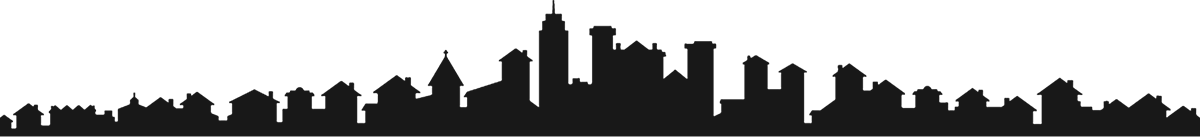
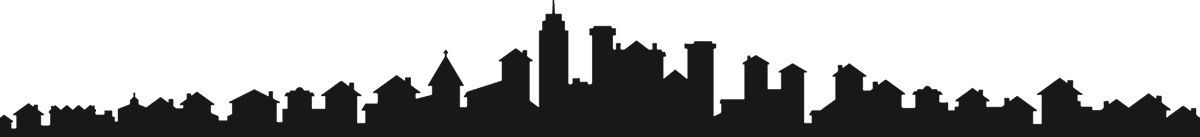
mobile adaptive

Changed region(s): [[0.0, 0.9927, 1.0, 1.0]]

diff --git a/css/style.css b/css/style.css
@@ -69,6 +69,9 @@ body {
 .menu__item:last-child a {
     margin-right: 0;
 }
+.menu__mobile {
+    display: none;
+}
 .active a {
     color: #010101;
 }
@@ -85,7 +88,8 @@ body {
     font-weight: 400;
     letter-spacing: 0.02em;
     color: #1d1e1f;
-    margin: 207px auto 4px;
+    padding-top: 207px;
+    margin: 0px auto 4px;
 }
 .header__text {
     font-family: "Merriweather-LightItalic", serif;
@@ -119,8 +123,8 @@ body {
     height: 1129px;
     padding-top: 128px;
     padding-bottom: 271px;
-    background: url(../img/buildings_white.png) center 101% repeat-x,
-                url(../img/buildings_dark.png) center 101% repeat-x,
+    background: url(../img/buildings_white.png) center 100% repeat-x,
+                url(../img/buildings_dark.png) center 100% repeat-x,
                 #1d1d1d;
     /* background-size: contain, contain; */
 }
@@ -375,4 +379,106 @@ input[type='number'] {
     letter-spacing: 0.02em;
     color: #3b3b3b;
     margin-bottom: 29px;
+}
+/*media for iPad*/
+@media screen and (max-width: 769px) {
+    .container {
+        width: 768px;
+    }
+    .about {
+        height: auto;
+        padding-bottom: 200px;
+    }
+    .about__inner {
+        grid-gap: 30px;
+        grid-template-columns: max-content;
+    }
+    .provide {
+        padding-bottom: 100px;
+    }
+    .team .block__title,
+    .provide .block__title {
+        padding-top: 100px;
+    }
+    .provide__inner {
+        flex-wrap: wrap;
+        justify-content: center;
+    }
+    .provide__item {
+        max-width: 300px;
+        margin: 0 30px 40px;
+    }
+    .contact__form {
+        padding-top: 100px;
+    }
+    .footer {
+        padding-top: 30px;
+    }
+}
+/*media for iPhone*/
+@media screen and (max-width: 376px) {
+    .container {
+        width: 375px;
+    }
+    .logo {
+        margin: 0 -15px;
+    }
+    .menu__desktop {
+        display: none;
+    }
+    .menu__mobile {
+        display: flex;
+        justify-content: space-between;
+        align-items: center;
+    }
+    .menu {
+        display: none;
+    }
+    .menu__burger {
+        cursor: pointer;
+        width: 30px;
+        height: 3px;
+        background-color: #000;
+        position: relative;
+    }
+    .menu__burger:after {
+        content: '';
+        width: 30px;
+        height: 3px;
+        background-color: #000;
+        position: absolute;
+        bottom: -10px;
+    }
+    .menu__burger:before {
+        content: '';
+        width: 30px;
+        height: 3px;
+        background-color: #000;
+        position: absolute;
+        top: -10px;
+    }
+    .header__title {
+        padding-top: 100px;
+        margin-bottom: 30px;
+    }
+    .header__button {
+        margin-bottom: 100px;   
+    }
+    .about__item {
+        max-width: 340px;
+    }
+    .team {
+        height: auto;
+        padding-bottom: 80px;
+    }
+    .team__inner {
+        padding-top: 100px;
+        flex-wrap: wrap;
+    }
+    .team__item {
+        width: 340px;
+    }
+    .provide__inner {
+        padding-top: 100px;
+    }
 }

diff --git a/index.html b/index.html
@@ -12,12 +12,24 @@
 <body>
     <header class="header">
         <div class="container">
-            <nav>
+            <nav class="menu__desktop">
                 <ul class="menu">
                     <li class="menu__item active"><a href="#">Home</a></li>
                     <li class="menu__item"><a href="#">About Us</a></li>
                     <li class="menu__item"><a href="#">Team</a></li>
                     <li class="menu__item"><a href="#"><img src="img/logo.png" alt="" class="logo"></a></li>
+                    <li class="menu__item"><a href="#">Services</a></li>
+                    <li class="menu__item"><a href="#">Blog</a></li>
+                    <li class="menu__item"><a href="#">Contact Us</a></li>
+                </ul>
+            </nav>
+            <nav class="menu__mobile">
+                <a href="#"><img src="img/logo.png" alt="" class="logo"></a>
+                <div class="menu__burger"></div>
+                <ul class="menu">         
+                    <li class="menu__item active"><a href="#">Home</a></li>
+                    <li class="menu__item"><a href="#">About Us</a></li>
+                    <li class="menu__item"><a href="#">Team</a></li>
                     <li class="menu__item"><a href="#">Services</a></li>
                     <li class="menu__item"><a href="#">Blog</a></li>
                     <li class="menu__item"><a href="#">Contact Us</a></li>
@@ -120,7 +132,7 @@
                 </div>
             </div>
         </div>
-    </div>
+    </div> 
     <div class="contact">
         <div class="container">
             <div class="block__head">
@@ -158,7 +170,7 @@
                 Copyright &copy; Kenan Hamidic. All rights reserved.
             </div>
         </div>
-    </div>   
+    </div>
 
 </body>
 
